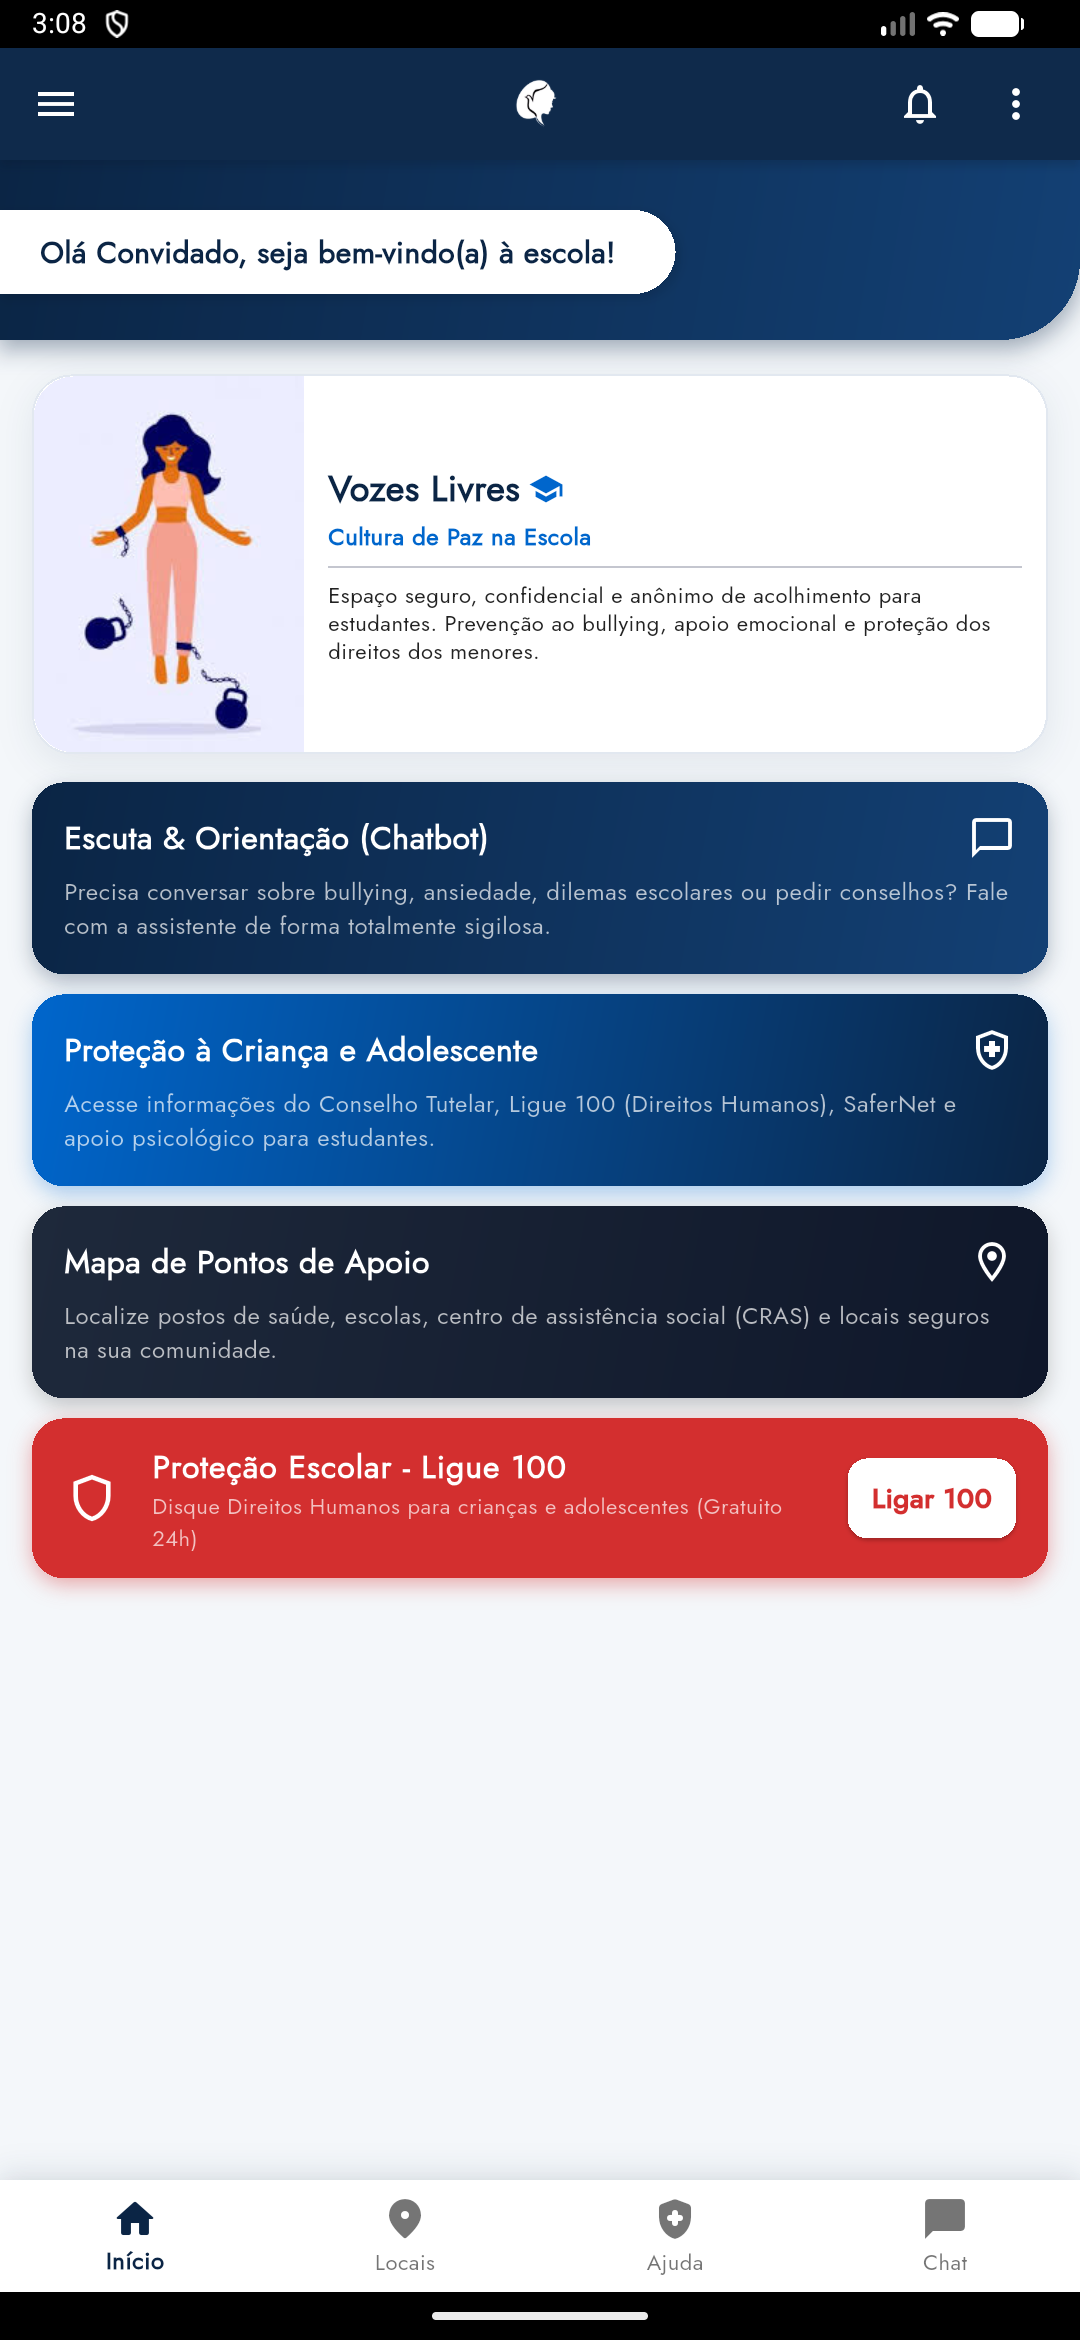
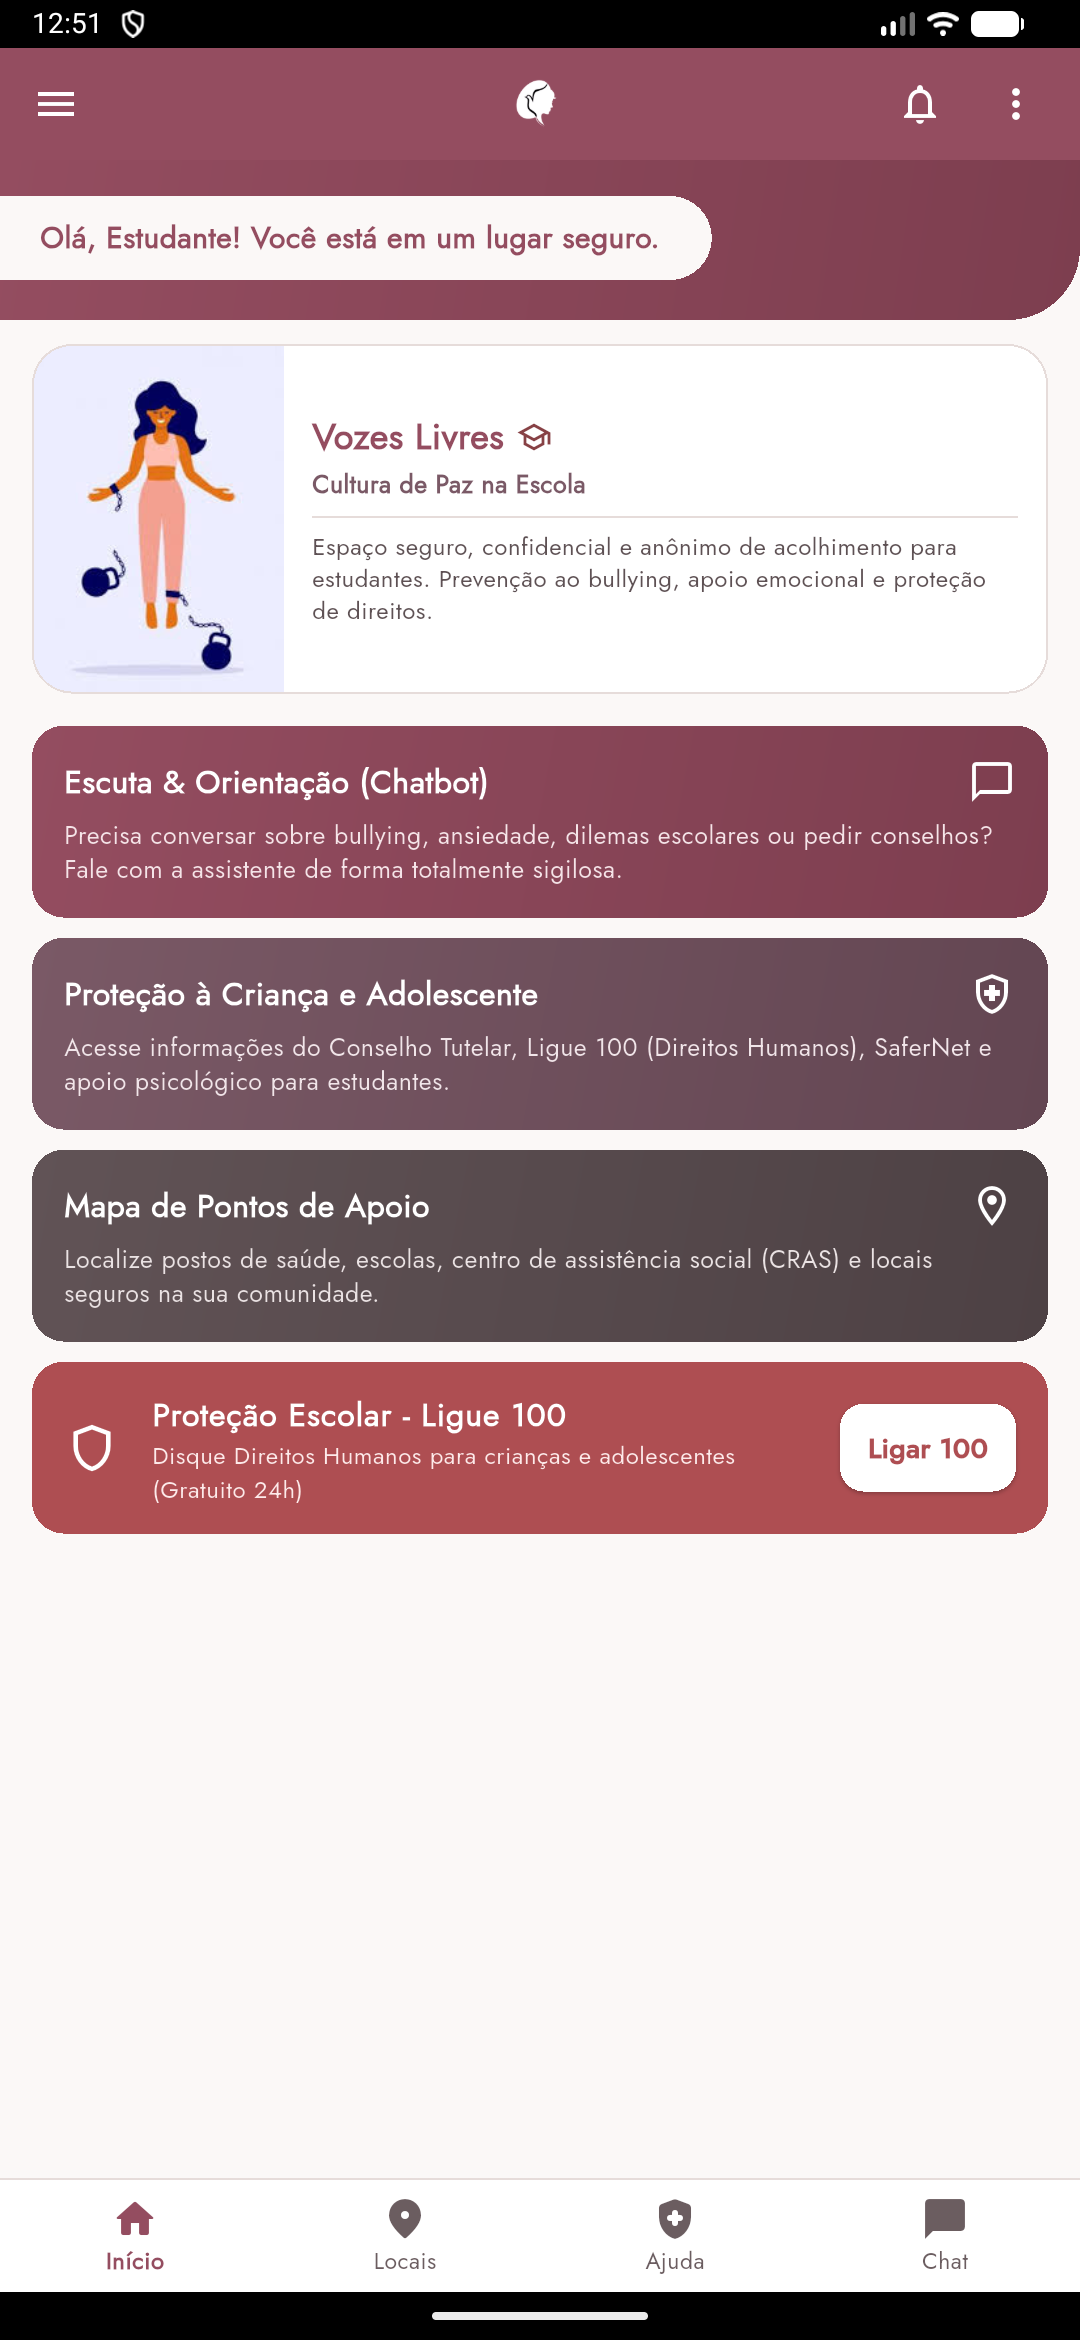
docs: atualizar README e gerar APK v1.1.0 com entrada direta e paleta rosa suave

diff --git a/README.md b/README.md
@@ -21,16 +21,16 @@
 
 ## 📥 Download do Aplicativo (APK)
 
-Você pode baixar e instalar a versão estável (`v1.0.0`) diretamente no seu celular Android, sem precisar compilar o código nem configurar chaves de API:
+Você pode baixar e instalar a versão estável mais recente (`v1.1.0`) diretamente no seu celular Android, sem precisar compilar o código nem configurar chaves de API:
 
-- 📦 **[Baixar VozesLivres-v1.0.0.apk (Android)](https://github.com/albertomateus9/VozesLivres/releases/download/v1.0.0/VozesLivres-v1.0.0.apk)**
+- 📦 **[Baixar VozesLivres-v1.1.0.apk (Android)](https://github.com/albertomateus9/VozesLivres/releases/download/v1.1.0/VozesLivres-v1.1.0.apk)**
 - 🏷 **[Ver todas as versões em Releases](https://github.com/albertomateus9/VozesLivres/releases/latest)**
 
 ### Como instalar no Android
-1. Baixe o arquivo `VozesLivres-v1.0.0.apk` pelo link acima.
+1. Baixe o arquivo `VozesLivres-v1.1.0.apk` pelo link acima.
 2. Abra o arquivo baixado no aparelho.
 3. Se o Android solicitar, habilite **"Permitir desta fonte"** / **"Fontes desconhecidas"** para concluir a instalação.
-4. Pronto! Abra o app **Vozes Livres** e utilize em modo anônimo, convidado ou acesso local.
+4. Pronto! Abra o app **Vozes Livres** e acesse diretamente — sem necessidade de login, senha ou cadastro.
 
 ---
 
@@ -46,18 +46,18 @@ Nossa motivação é disponibilizar uma ferramenta acessível, confidencial e se
 - 🗺 **Mapa de Locais Seguros (OpenStreetMap)**: Mapeamento aberto e gratuito com geolocalização dos pontos de apoio mais próximos (Hospitais, Delegacias, Farmácias, Postos de Saúde e Universidades), com fallback offline.
 - 🏥 **Rede de Apoio & ONGs**: Lista curada disponível mesmo sem internet (Ligue 100, Conselho Tutelar, SaferNet Brasil, CVV, Ligue 180 e Mapa do Acolhimento) com discagem direta em 1 toque, e-mail e site oficial.
 - 🚨 **Canais de Emergência Direta**: Acesso rápido com um toque aos números de socorro imediato (**100** - Direitos Humanos, **180** - Mulher, **190** - Polícia Militar, **192** - SAMU, **188** - CVV) e cópia rápida de coordenadas via OpenStreetMap.
-- 🔒 **Modo Anônimo e Convidado**: Sessão local simplificada sem exposição de dados pessoais nem dependência de servidores pagos.
+- 🔒 **Entrada Direta & Privacidade Total**: Acesso imediato em um toque sem login, senha ou cadastro, com atalhos diretos para conversar com a Angel ou acionar emergência mantendo os dados apenas no dispositivo.
 
 ---
 
 ## 📱 Telas e Demonstração do Aplicativo
 
-Abaixo estão as capturas de tela reais da aplicação em execução no emulador Android, ilustrando a interface e o fluxo do usuário:
+Abaixo estão capturas de tela da aplicação em execução no emulador Android, ilustrando a interface e o fluxo do usuário:
 
-| 1. Autenticação & Modo Anônimo | 2. Início / Painel de Acolhimento |
+| 1. Entrada Direta & Acolhimento | 2. Início / Painel de Acolhimento |
 | :---: | :---: |
-| <img src="assets/images/readme_images/01_tela_login.png" width="280" alt="Tela de Autenticação e Entrada Anônima" /> | <img src="assets/images/readme_images/02_tela_home.png" width="280" alt="Tela Inicial / Home" /> |
-| **Login e Privacidade**: Opções de login tradicional, entrada anônima ou acesso como convidado sem expor identidade. | **Painel Principal**: Saudação acolhedora, cards rápidos para chatbot, conselho tutelar, pontos de apoio e chamada do Ligue 100. |
+| <img src="assets/images/readme_images/01_tela_entrada.png" width="280" alt="Tela de Entrada Direta e Acolhimento" /> | <img src="assets/images/readme_images/02_tela_home.png" width="280" alt="Tela Inicial / Home" /> |
+| **Entrada Direta sem Login**: Acesso imediato em 1 toque, 100% anônimo e offline, com atalhos diretos para o chat e canais de emergência. | **Painel Principal**: Saudação acolhedora em paleta suave, cards rápidos para chatbot, conselho tutelar, pontos de apoio e chamada do Ligue 100. |
 
 | 3. Mapa de Pontos de Apoio | 4. Rede de Apoio e ONGs |
 | :---: | :---: |
@@ -67,7 +67,7 @@ Abaixo estão as capturas de tela reais da aplicação em execução no emulador
 | 5. Assistente de Escuta (Chatbot) | 6. Menu Lateral (Navegação) |
 | :---: | :---: |
 | <img src="assets/images/readme_images/05_tela_chat.png" width="280" alt="Chatbot de Escuta" /> | <img src="assets/images/readme_images/06_menu_lateral.png" width="280" alt="Menu Lateral" /> |
-| **Escuta & Diálogo**: Chatbot seguro para acolhimento emocional, dúvidas, relatos de bullying e orientação. | **Navegação Integrada**: Menu lateral com atalhos para todas as áreas e encerramento seguro de sessão. |
+| **Escuta & Diálogo**: Chatbot seguro para acolhimento emocional, dúvidas, relatos de bullying e orientação. | **Navegação Integrada**: Menu lateral com atalhos para todas as áreas e retorno discreto à tela de entrada. |
 
 | 7. Central de Emergência & Alertas | 8. Sobre o Projeto |
 | :---: | :---: |
@@ -78,11 +78,11 @@ Abaixo estão as capturas de tela reais da aplicação em execução no emulador
 
 ## 🎨 Identidade Visual
 
-O visual do aplicativo é baseado em elementos de tecnologia e cultura de paz:
-- **Azul Marinho (`#0B2545`)**: Transmite confiança, estabilidade e proteção.
-- **Azul Tecnologia (`#0066CC`)**: Traz clareza e acessibilidade aos recursos.
-- **Vermelho Carmim (`#D32F2F`)**: Destaque tático para emergências e alertas.
-- **Branco/Cinza Claro (`#F4F7FA`)**: Proporciona legibilidade e visual limpo.
+A paleta do aplicativo foi desenhada com base em princípios psicofisiológicos e de neurociência ambiental (alta luminosidade e baixa saturação para conforto e redução de alerta visual):
+- **Rosa Antigo Suave (`#944D60` / `#7D3E4F`)**: Transmite acolhimento, segurança e proximidade sem estímulos agressivos.
+- **Malva & Taupe Neutros Suaves (`#7A5966` / `#615356`)**: Equilíbrio emocional, clareza e leitura confortável.
+- **Rosa-Carmim Contido (`#AE4E52`)**: Destaque tático para emergências e alertas sem causar pânico visual.
+- **Marfim Rosado & Névoa Rosa (`#FBF8F7` / `#F8EAEF`)**: Superfícies neutras suaves que reduzem fadiga visual e aumentam a sensação de calma.
 
 ---
 
@@ -111,7 +111,7 @@ flutter pub get
 O projeto **não utiliza nenhuma API com chave paga**:
 - **Mapas e Geolocalização**: Utiliza **OpenStreetMap** (`flutter_map` + `latlong2`), busca de endereços e pontos próximos via **Nominatim / Overpass API** (serviços abertos e sem chave) e fallback local caso esteja offline.
 - **Assistente Angel**: Roda localmente no dispositivo em português, com total privacidade e sem cobrança por tokens ou nuvem.
-- **Autenticação e Rede de Apoio**: Gerenciadas localmente no aplicativo para funcionamento imediato e proteção dos dados do estudante.
+- **Sessão Anônima e Rede de Apoio**: Gerenciadas localmente no aplicativo para funcionamento imediato e proteção dos dados do estudante.
 
 ---
 
